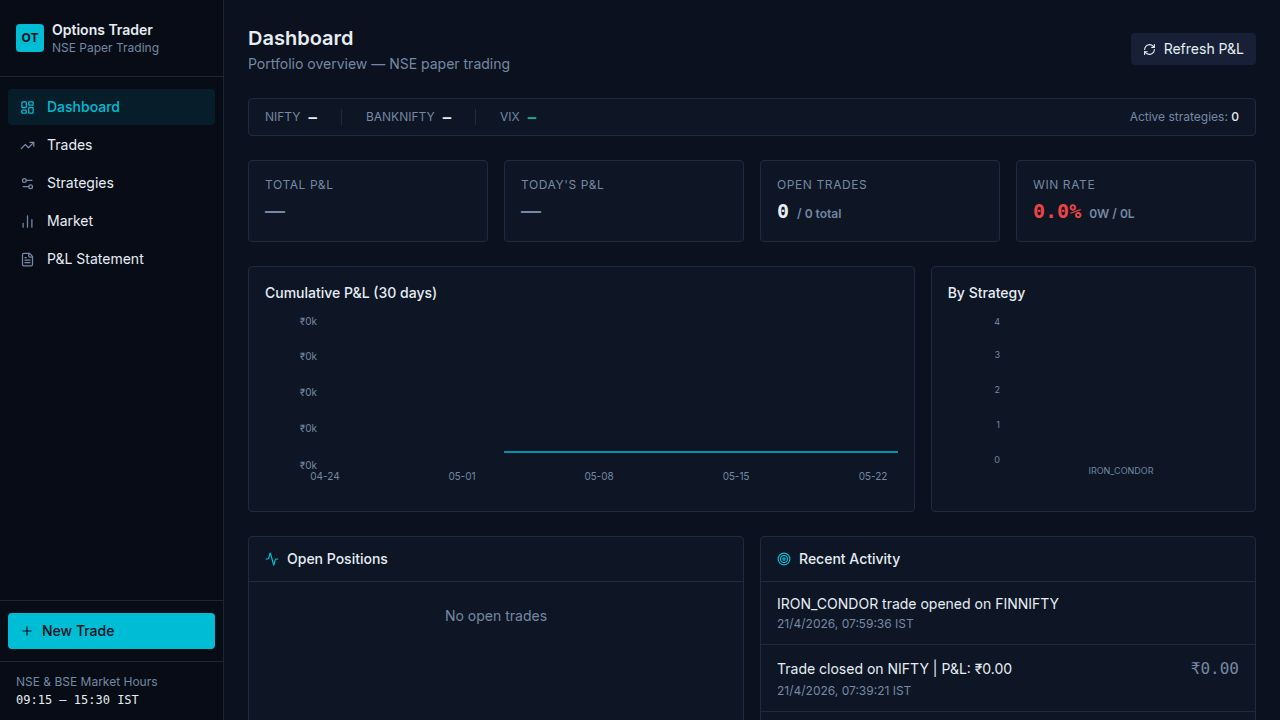
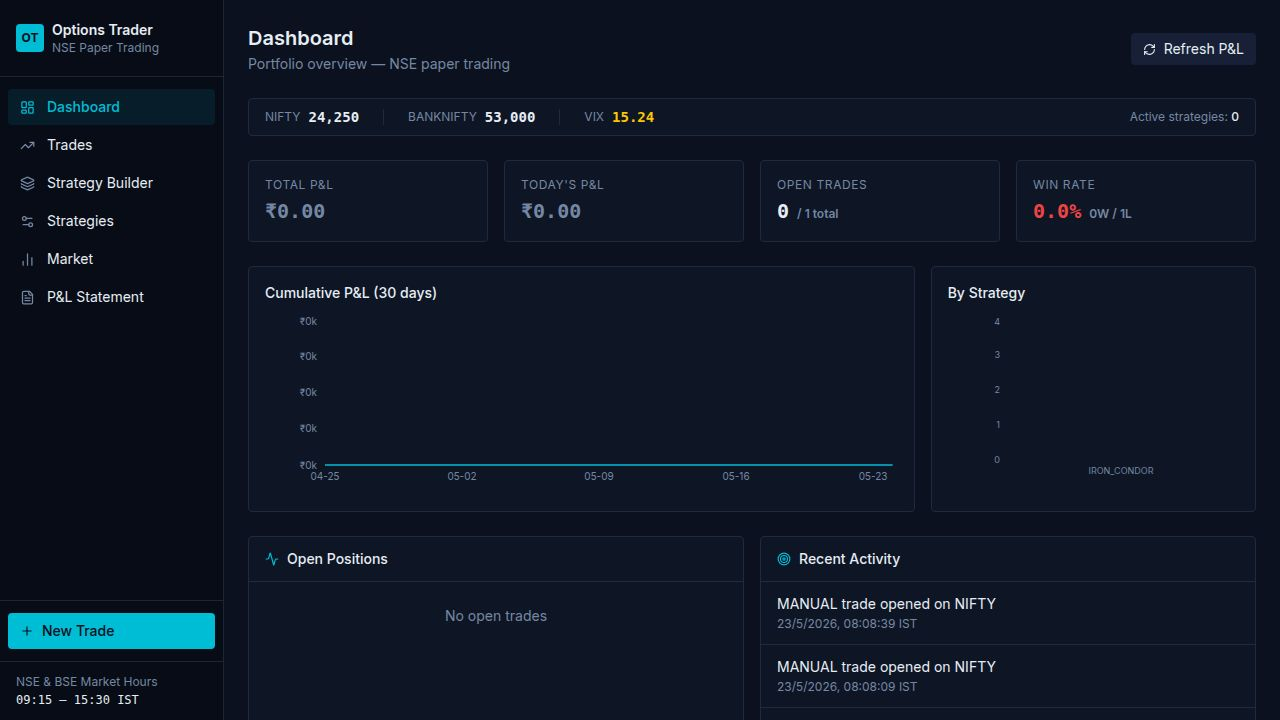
Improve strategy builder by fetching all option chain data at once
Refactors the Strategy Builder to use a single API call for fetching multi-expiry option chains, enhancing performance and data loading. Includes per-leg expiry tracking in the basket, fixes IV% calculation bug, and resolves pre-existing TypeScript errors in Dashboard and Trades components.

Replit-Commit-Author: Agent
Replit-Commit-Session-Id: 12acb629-ebce-44ed-a39f-b6e08c08bca7
Replit-Commit-Checkpoint-Type: full_checkpoint
Replit-Commit-Event-Id: 38a16e70-8169-4933-a0c6-c6d7e1de6645
Replit-Commit-Screenshot-Url: https://storage.googleapis.com/screenshot-production-us-central1/8191b36a-455f-4597-acff-14801f671487/12acb629-ebce-44ed-a39f-b6e08c08bca7/sBAb9fM
Replit-Helium-Checkpoint-Created: true

diff --git a/artifacts/options-dashboard/src/pages/StrategyBuilder.tsx b/artifacts/options-dashboard/src/pages/StrategyBuilder.tsx
@@ -2,13 +2,11 @@ import { useState, useMemo } from "react";
 import { useQueryClient } from "@tanstack/react-query";
 import { useLocation } from "wouter";
 import {
-  useGetExpiries,
-  useGetOptionChain,
+  useGetMultiOptionChain,
   useGetMarketQuote,
   useCreateTrade,
   getListTradesQueryKey,
-  getGetExpiriesQueryKey,
-  getGetOptionChainQueryKey,
+  getGetMultiOptionChainQueryKey,
   getGetMarketQuoteQueryKey,
 } from "@workspace/api-client-react";
 import type { OptionStrike } from "@workspace/api-client-react";
@@ -71,8 +69,8 @@ const CHAIN_COLS: ChainCol[] = [
   {
     key: "iv",
     header: "IV%",
-    callRender: (s) => (s.callIv ?? 0* 100).toFixed(1) + "%",
-    putRender:  (s) => (s.putIv ?? 0* 100).toFixed(1) + "%",
+    callRender: (s) => ((s.callIv ?? 0) * 100).toFixed(1) + "%",
+    putRender:  (s) => ((s.putIv ?? 0) * 100).toFixed(1) + "%",
     align: "right",
     callCls: "text-blue-400",
     putCls:  "text-blue-400",
@@ -104,6 +102,7 @@ const CHAIN_COLS: ChainCol[] = [
 type BasketLeg = {
   id: string;
   strike: number;
+  expiry: string;
   type: "CE" | "PE";
   action: "BUY" | "SELL";
   ltp: number;
@@ -150,25 +149,18 @@ export default function StrategyBuilder() {
   const qc = useQueryClient();
   const [, navigate] = useLocation();
 
-  // Fetch expiries
-  const { data: expiriesData, isLoading: expiriesLoading } = useGetExpiries(
+  // Fetch all expiries + chains in one call
+  const { data: multiData, isLoading: chainLoading } = useGetMultiOptionChain(
     { symbol },
-    { query: { queryKey: getGetExpiriesQueryKey({ symbol }), refetchInterval: 60_000 } }
+    { query: { queryKey: getGetMultiOptionChainQueryKey({ symbol }), refetchInterval: 15_000 } }
   );
-   
-  console.log(expiriesData)
-  const expiries = expiriesData?.expiries ?? [];
+
+  const expiries = multiData?.availableExpiries ?? [];
 
   // Auto-select first expiry when symbol or expiry list changes
   const activeExpiry = selectedExpiry && expiries.includes(selectedExpiry)
     ? selectedExpiry
     : expiries[0] ?? "";
-
-  // Fetch option chain
-  const { data: chainData, isLoading: chainLoading } = useGetOptionChain(
-    { symbol, expiry: activeExpiry },
-    { query: { queryKey: getGetOptionChainQueryKey({ symbol, expiry: activeExpiry }), enabled: !!activeExpiry, refetchInterval: 15_000 } }
-  );
 
   // Fetch spot price
   const { data: quote } = useGetMarketQuote(
@@ -197,10 +189,10 @@ export default function StrategyBuilder() {
   const lotSize = LOT_SIZES[symbol];
 
   // Basket helpers
-  function addLeg(strike: number, type: "CE" | "PE", ltp: number, action: "BUY" | "SELL") {
-    const id = `${strike}-${type}-${action}`;
+  function addLeg(strike: number, type: "CE" | "PE", ltp: number, action: "BUY" | "SELL", expiry: string) {
+    const id = `${expiry}-${strike}-${type}-${action}`;
     if (basket.find((b) => b.id === id)) return;
-    setBasket((prev) => [...prev, { id, strike, type, action, ltp, lots: 1 }]);
+    setBasket((prev) => [...prev, { id, strike, expiry, type, action, ltp, lots: 1 }]);
   }
 
   function removeLeg(id: string) {
@@ -223,9 +215,9 @@ export default function StrategyBuilder() {
     );
   }
 
-  // Is a given strike/type already in basket?
-  function inBasket(strike: number, type: "CE" | "PE") {
-    return basket.some((b) => b.strike === strike && b.type === type);
+  // Is a given strike/type/expiry already in basket?
+  function inBasket(strike: number, type: "CE" | "PE", expiry: string) {
+    return basket.some((b) => b.strike === strike && b.type === type && b.expiry === expiry);
   }
 
   // Net premium calculation
@@ -251,7 +243,7 @@ export default function StrategyBuilder() {
           symbol,
           optionType: b.type,
           strike: b.strike,
-          expiry: activeExpiry,
+          expiry: b.expiry,
           action: b.action,
           quantity: b.lots,
           entryPrice: b.ltp,
@@ -261,8 +253,8 @@ export default function StrategyBuilder() {
     });
   }
 
-  const strikes = chainData?.strikes ?? [];
-  const atmStrike = chainData?.atmStrike ?? 0;
+  const strikes = (multiData?.chains as Record<string, OptionStrike[]> | undefined)?.[activeExpiry] ?? [];
+  const atmStrike = multiData?.atmStrike ?? 0;
 
   // Format expiry label for display
   function fmtExpiry(raw: string) {
@@ -347,7 +339,7 @@ export default function StrategyBuilder() {
       {/* Expiry tabs */}
       <div className="flex-none border-b border-border bg-sidebar px-6 py-2 flex items-center gap-1 flex-wrap">
         <span className="text-xs text-muted-foreground mr-1">Expiry:</span>
-        {expiriesLoading && <span className="text-xs text-muted-foreground">Loading…</span>}
+        {chainLoading && expiries.length === 0 && <span className="text-xs text-muted-foreground">Loading…</span>}
         {expiries.map((exp) => {
           const flag = expiryFlag(exp);
           const isActive = activeExpiry === exp;
@@ -426,8 +418,8 @@ export default function StrategyBuilder() {
               <tbody>
                 {strikes.map((row) => {
                   const isAtm = row.strike === atmStrike;
-                  const ceActive = inBasket(row.strike, "CE");
-                  const peActive = inBasket(row.strike, "PE");
+                  const ceActive = inBasket(row.strike, "CE", activeExpiry);
+                  const peActive = inBasket(row.strike, "PE", activeExpiry);
 
                   return (
                     <tr
@@ -447,8 +439,8 @@ export default function StrategyBuilder() {
                       {/* CE add buttons */}
                       <td className="px-2 py-2 text-center border-r border-border">
                         <div className="flex gap-1 justify-center">
-                          <ActionBtn label="S" active={ceActive} onClick={() => addLeg(row.strike, "CE", row.callLtp, "SELL")} />
-                          <ActionBtn label="B" active={ceActive} onClick={() => addLeg(row.strike, "CE", row.callLtp, "BUY")} />
+                          <ActionBtn label="S" active={ceActive} onClick={() => addLeg(row.strike, "CE", row.callLtp, "SELL", activeExpiry)} />
+                          <ActionBtn label="B" active={ceActive} onClick={() => addLeg(row.strike, "CE", row.callLtp, "BUY", activeExpiry)} />
                         </div>
                       </td>
 
@@ -461,8 +453,8 @@ export default function StrategyBuilder() {
                       {/* PE add buttons */}
                       <td className="px-2 py-2 text-center border-l border-border">
                         <div className="flex gap-1 justify-center">
-                          <ActionBtn label="S" active={peActive} onClick={() => addLeg(row.strike, "PE", row.putLtp, "SELL")} />
-                          <ActionBtn label="B" active={peActive} onClick={() => addLeg(row.strike, "PE", row.putLtp, "BUY")} />
+                          <ActionBtn label="S" active={peActive} onClick={() => addLeg(row.strike, "PE", row.putLtp, "SELL", activeExpiry)} />
+                          <ActionBtn label="B" active={peActive} onClick={() => addLeg(row.strike, "PE", row.putLtp, "BUY", activeExpiry)} />
                         </div>
                       </td>
 
@@ -543,6 +535,7 @@ export default function StrategyBuilder() {
                           }`}>
                             {leg.type}
                           </span>
+                          <span className="text-[10px] text-muted-foreground">{fmtExpiry(leg.expiry)}</span>
                         </div>
                         <button
                           onClick={() => removeLeg(leg.id)}
@@ -646,7 +639,7 @@ export default function StrategyBuilder() {
 
             {basket.length > 0 && !createTrade.isPending && (
               <p className="text-[10px] text-muted-foreground text-center">
-                {symbol} · {fmtExpiry(activeExpiry)} · {basket.length} legs
+                {symbol} · {basket.length} leg{basket.length > 1 ? "s" : ""} across {new Set(basket.map(b => b.expiry)).size} expir{new Set(basket.map(b => b.expiry)).size === 1 ? "y" : "ies"}
               </p>
             )}
           </div>

diff --git a/artifacts/options-dashboard/src/pages/Trades.tsx b/artifacts/options-dashboard/src/pages/Trades.tsx
@@ -7,9 +7,10 @@ import {
   useCloseTrade,
   useDeleteTrade,
 } from "@workspace/api-client-react";
+import type { Trade, TradeLeg } from "@workspace/api-client-react";
 import { ChevronDown, ChevronRight, Plus, X, Check } from "lucide-react";
 
-function PnlValue({ value, label }: { value: number | null; label?: string }) {
+function PnlValue({ value, label }: { value: number | null | undefined; label?: string }) {
   if (value == null) return <span className="text-muted-foreground font-mono-num">—</span>;
   const cls = value > 0 ? "profit" : value < 0 ? "loss" : "text-muted-foreground";
   return (
@@ -21,7 +22,7 @@ function PnlValue({ value, label }: { value: number | null; label?: string }) {
 }
 
 function TradeRow({ trade, onClose, onDelete }: {
-  trade: NonNullable<ReturnType<typeof useListTrades>["data"]>[0];
+  trade: Trade;
   onClose: (id: number) => void;
   onDelete: (id: number) => void;
 }) {
@@ -102,7 +103,7 @@ function TradeRow({ trade, onClose, onDelete }: {
                   </tr>
                 </thead>
                 <tbody>
-                  {trade.legs.map((leg) => (
+                  {trade.legs.map((leg: TradeLeg) => (
                     <tr key={leg.id} className="border-b border-border/50 last:border-0">
                       <td className="px-3 py-2 font-medium">{leg.symbol}</td>
                       <td className="px-3 py-2">

diff --git a/artifacts/options-dashboard/src/pages/Dashboard.tsx b/artifacts/options-dashboard/src/pages/Dashboard.tsx
@@ -76,7 +76,7 @@ export default function Dashboard() {
           <p className="text-sm text-muted-foreground mt-0.5">Portfolio overview — NSE paper trading</p>
         </div>
         <button
-          onClick={() => refreshPnl.mutate({})}
+          onClick={() => refreshPnl.mutate()}
           disabled={refreshPnl.isPending}
           className="flex items-center gap-2 px-3 py-1.5 text-sm bg-secondary hover:bg-secondary/80 rounded transition-colors text-secondary-foreground"
         >